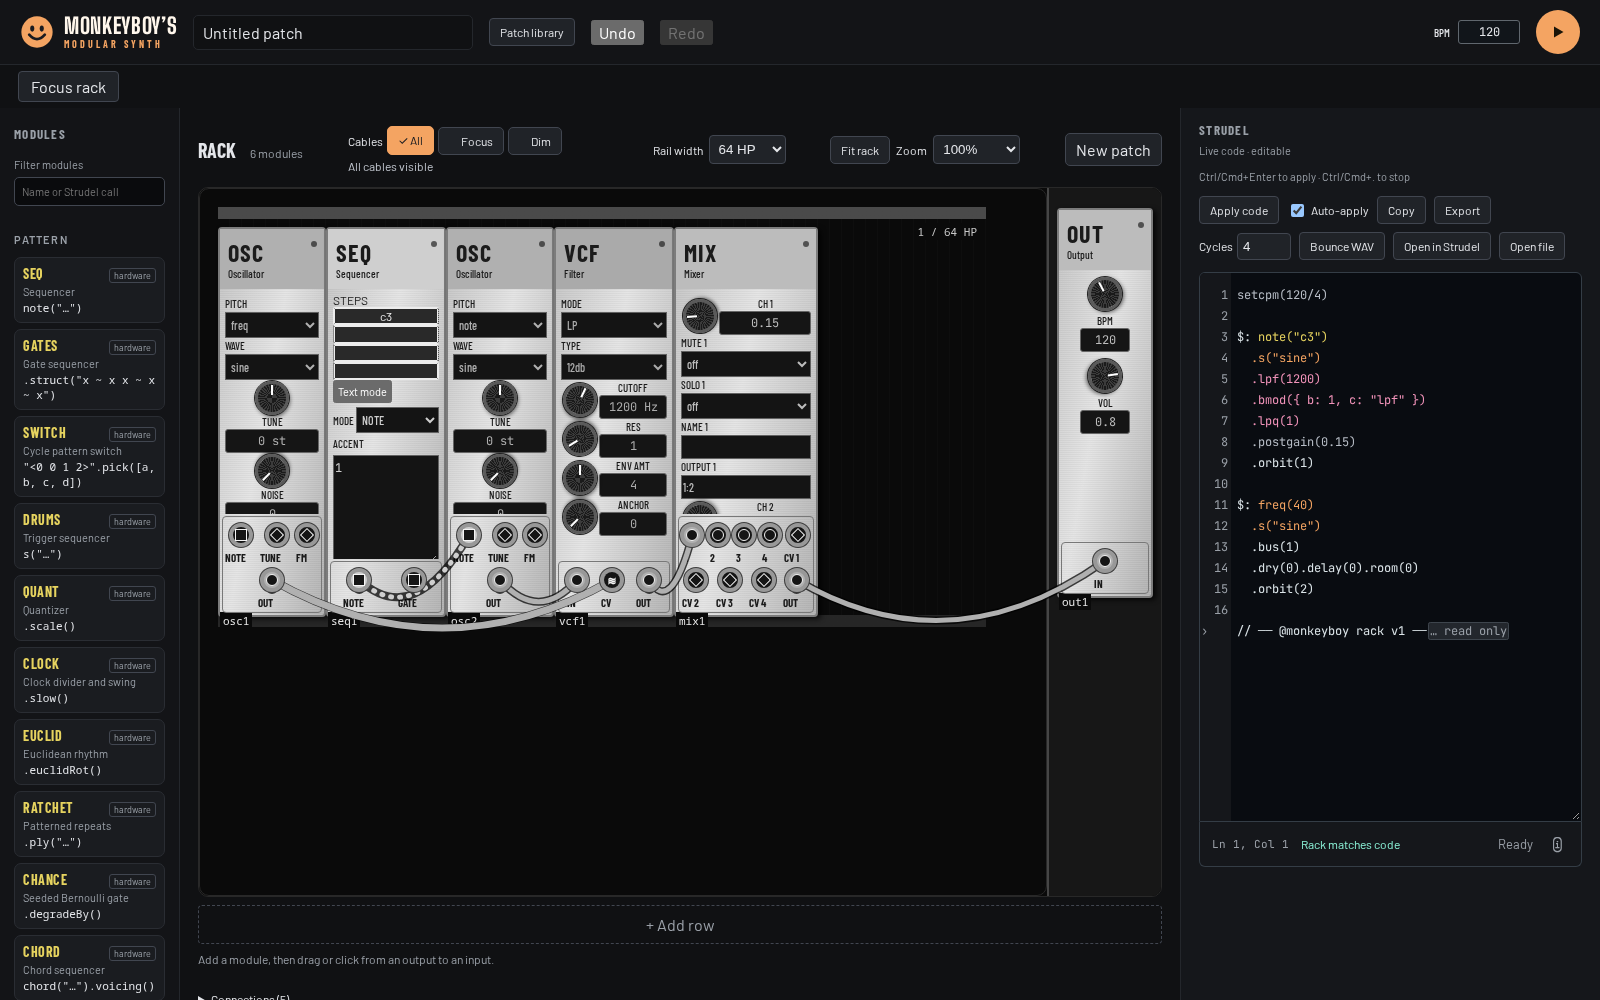
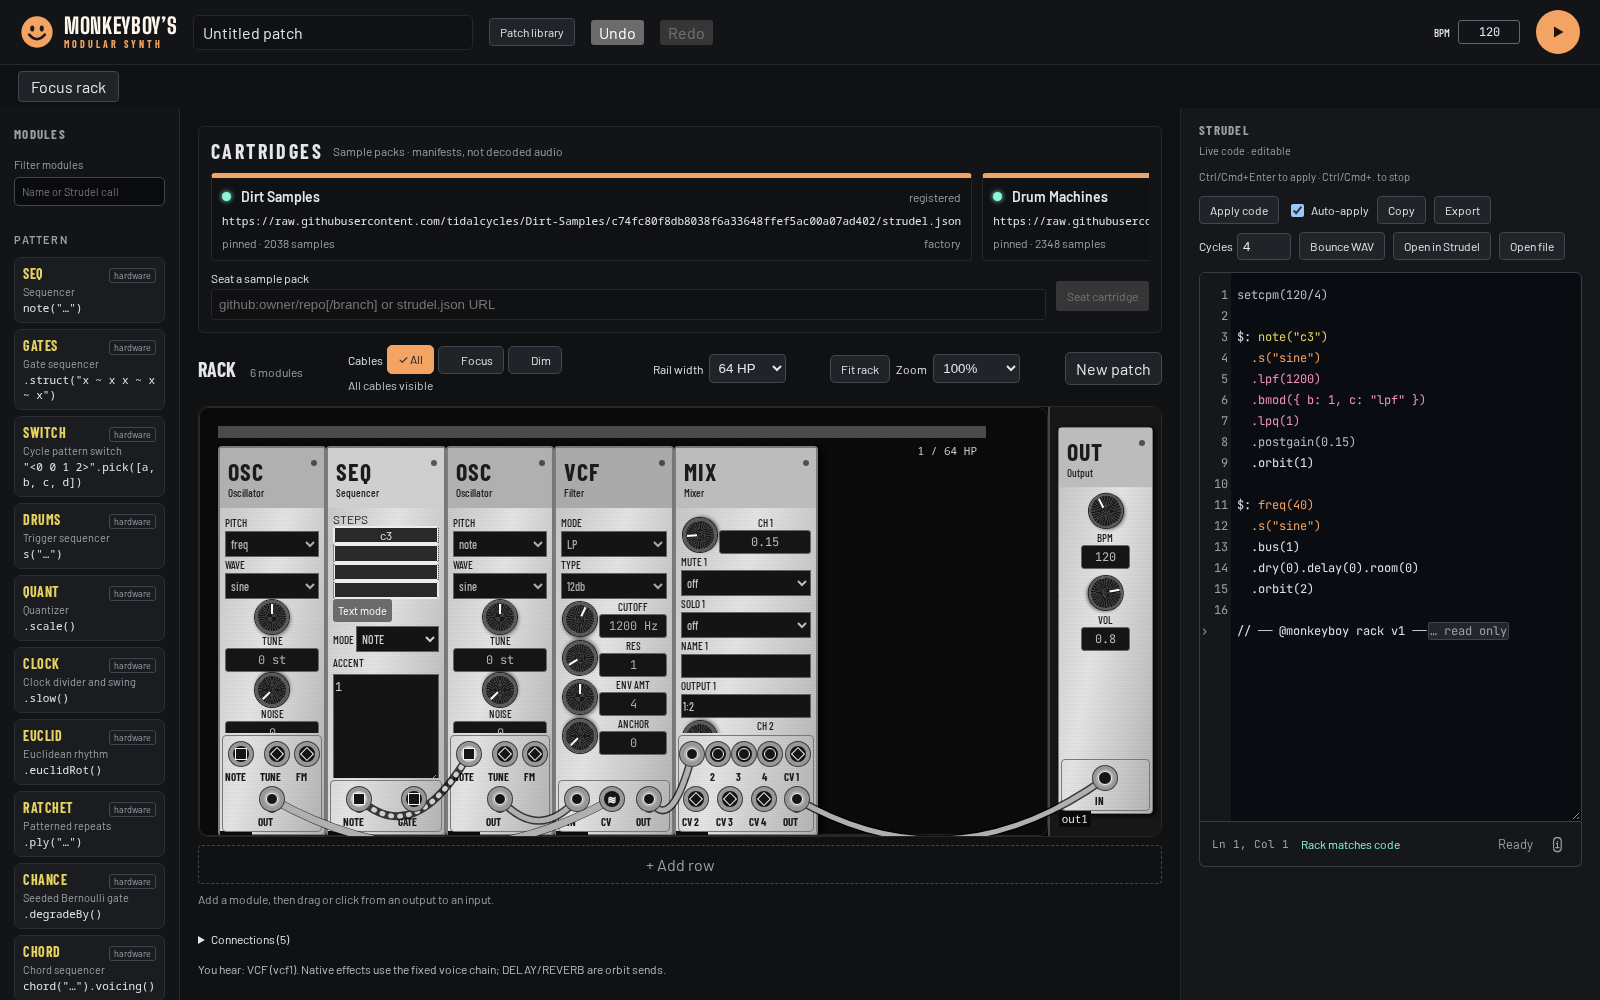
Verify routing against cartridge export and current main

diff --git a/src/codegen/routing.test.ts b/src/codegen/routing.test.ts
@@ -1,3 +1,5 @@
+import { withFactoryPacks } from '../workspace/cartridges'
+import { FACTORY_PACKS, packSetup } from '../samples/packs'
 import { parse } from 'acorn'
 import { parseSource } from '../reader/syntax'
 import { beforeAll, describe, expect, it } from 'vitest'
@@ -333,5 +335,20 @@ it.each(['aux', 'audio-mod', 'duck'] as const)(
     expect(privateScopes.length).toBeGreaterThan(0)
     expect(privateScopes.every((s) => s.label === 'S$')).toBe(true)
     expect(read(source).patch).toEqual(patch)
+  },
+)
+
+it.each(ROUTING_KINDS)(
+  '%s preserves routing and exact saved identity through cartridge export',
+  (kind) => {
+    const patch = routingFixture(kind),
+      source = generate(patch)
+    const exported = withFactoryPacks(read(source))
+    expect(exported.patch.cartridges).toEqual(FACTORY_PACKS)
+    expect(sourceBody(exported.source)).toBe(packSetup(FACTORY_PACKS) + sourceBody(source))
+    const reopened = read(exported.source)
+    expect(reopened.layout, reopened.diagnostics.join('; ')).toBe('restored')
+    expect(reopened.patch).toEqual({ ...patch, cartridges: FACTORY_PACKS })
+    expect(generate(reopened)).toBe(exported.source)
   },
 )

diff --git a/docs/routing-verification.md b/docs/routing-verification.md
@@ -8,7 +8,7 @@ visibility remain in #137–#139.
 ## Deterministic proof
 
 `npm ci` and `npm run check` pass: formatting, skill integrity, lint, unit tests,
-reader coverage, **2,185 unit tests**, 43 executable guardrails, TypeScript and
+reader coverage, **2,204 unit tests**, 43 executable guardrails, TypeScript and
 production build.
 The pre-existing large-bundle build advisory remains.
 
@@ -124,3 +124,14 @@ structural replacement and replay, and its target retains logical output pair
 label and saved-identity regressions; the ordinary unit event helper deliberately
 does not emulate REPL label selection. Physical multichannel devices are not
 verified. No extra musical events or app-only playback shims were added.
+
+Sol recheck approved the current routing behavior in round 2 with no new
+in-scope findings. Both S1/S2 are resolved; provider-reported usage was unavailable.
+
+## Wave-four integration
+
+Rebased on the completed #137 cartridge bay without discarding its setup or
+resource behavior. The generator retains bay-owned `samples()` setup before
+routing declarations/voices. Five additional regressions separately prove exact
+export bytes and full saved routing identity with both explicit factory packs.
+The full repository and routing browser gates were rerun on that combined base.
